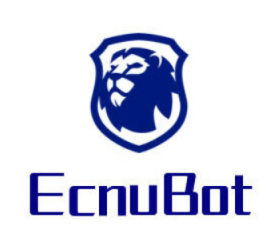
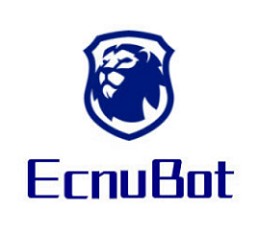
support stream chat

diff --git a/main.py b/main.py
@@ -1,6 +1,6 @@
+import time
 import gradio as gr
 from model import bridge_qianfan, bridge_ChatGLM3, bridge_educhat, bridge_qwen
-
 
 def parse_text(text):
     """copy from https://github.com/GaiZhenbiao/ChuanhuChatGPT/"""
@@ -35,10 +35,6 @@ def parse_text(text):
     return text
 
 
-def reset_user_input():
-    return gr.update(value="")
-
-
 def reset_state():
     return [], [], None
 
@@ -47,18 +43,22 @@ def reset_radio_input():
     return None
 
 
+def user_text(user_input, history):
+    prompt = parse_text(user_input)
+    return "", history + [[prompt, None]]
+
+
 def predict(
-    user_input,
     chatbot,
     model_dropdown,
     edu_radio,
     max_length,
     top_p,
     temperature,
-    history,
 ):
-    prompt = parse_text(user_input)
-    chatbot.append((prompt, ""))
+    history = chatbot[:-1]
+    prompt = chatbot[-1][0]
+    chatbot[-1][1] = ""
     if model_dropdown == "EduChat":
         response = bridge_educhat.get_resp(
             prompt, edu_radio, max_length, top_p, temperature, history
@@ -69,15 +69,18 @@ def predict(
         response = bridge_qwen.get_resp(prompt, max_length, top_p, temperature, history)
     if model_dropdown == "ChatGLM3":
         response = bridge_ChatGLM3.get_resp(prompt, history)
-    chatbot[-1] = (prompt, response)
-    history.append((prompt, response))
-    yield chatbot, history
+    history = history + [[prompt, response]]
+    for stream_char in response:
+        print(stream_char)
+        chatbot[-1][1] += stream_char
+        time.sleep(0.1)
+        yield chatbot
 
 
 with gr.Blocks() as demo:
     gr.Markdown(
         """\
-    <p align="center"><img src='/file=assets/EcnuBot.png' style="height: 60px"/><p>"""
+    <p align="center"><img src='/file=assets/Logo.png' style="height: 60px"/><p>"""
     )
     gr.Markdown("""<center><font size=6>EcnuBot</center>""")
     with gr.Column():
@@ -121,7 +124,9 @@ with gr.Blocks() as demo:
                 )
 
             with gr.Column(scale=6):
-                chatbot = gr.Chatbot()
+                chatbot = gr.Chatbot(
+                    avatar_images=["assets/User.png", "assets/EcnuBot.png"]
+                )
                 user_input = gr.Textbox(
                     show_label=False, placeholder="Input...", lines=2
                 ).style(container=False)
@@ -155,24 +160,14 @@ with gr.Blocks() as demo:
     )
 
     submitBtn.click(
+        user_text, [user_input, chatbot], [user_input, chatbot], queue=False
+    ).then(
         predict,
-        [
-            user_input,
-            chatbot,
-            model_dropdown,
-            edu_radio,
-            max_length,
-            top_p,
-            temperature,
-            history,
-        ],
-        [chatbot, history],
-        show_progress=True,
+        [chatbot, model_dropdown, edu_radio, max_length, top_p, temperature],
+        [chatbot],
     )
-    submitBtn.click(reset_user_input, [], [user_input])
-    edu_radio.select(reset_radio_input, [], [user_input])
-    # regen_btn.click(regenerate, [chatbot, model_dropdown, edu_radio, max_length, top_p, temperature, history], [chatbot], show_progress=True)
-    emptyBtn.click(reset_state, outputs=[chatbot, history], show_progress=True)
+    edu_radio.select(reset_radio_input, [], [user_input], queue=False)
+    emptyBtn.click(reset_state, outputs=[chatbot, history], queue=False)
 
 demo.queue().launch(
     share=False,

diff --git a/model/bridge_qianfan.py b/model/bridge_qianfan.py
@@ -45,6 +45,7 @@ def get_resp(user_input, top_p, temperature, history):
         qianfan_data["messages"] = []
     qianfan_data["top_p"] = top_p
     qianfan_data["temperature"] = temperature
+    # return "测试先帝创业未半而中道崩殂，今天下三分，益州疲弊，此诚危急存亡之秋也。然侍卫之臣不懈于内，忠志之士忘身于外者，盖追先帝之殊遇，欲报之于陛下也。诚宜开张圣听，以光先帝遗德，恢弘志士之气，不宜妄自菲薄，引喻失义，以塞忠谏之路也。宫中府中，俱为一体，陟罚臧否，不宜异同。若有作奸犯科及为忠善者，宜付有司论其刑赏，以昭陛下平明之理，不宜偏私，使内外异法也。侍中、侍郎郭攸之、费祎、董允等，此皆良实，志虑忠纯，是以先帝简拔以遗陛下。愚以为宫中之事，事无大小，悉以咨之，然后施行，必能裨补阙漏，有所广益。将军向宠，性行淑均，晓畅军事，试用于昔日，先帝称之曰能，是以众议举宠为督。愚以为营中之事，悉以咨之，必能使行阵和睦，优劣得所。亲贤臣，远小人，此先汉所以兴隆也；亲小人，远贤臣，此后汉所以倾颓也。先帝在时，每与臣论此事，未尝不叹息痛恨于桓、灵也。侍中、尚书、长史、参军，此悉贞良死节之臣，愿陛下亲之信之，则汉室之隆，可计日而待也。臣本布衣，躬耕于南阳，苟全性命于乱世，不求闻达于诸侯。先帝不以臣卑鄙，猥自枉屈，三顾臣于草庐之中，咨臣以当世之事，由是感激，遂许先帝以驱驰。后值倾覆，受任于败军之际，奉命于危难之间，尔来二十有一年矣。先帝知臣谨慎，故临崩寄臣以大事也。受命以来，夙夜忧叹，恐托付不效，以伤先帝之明，故五月渡泸，深入不毛。今南方已定，兵甲已足，当奖率三军，北定中原，庶竭驽钝，攘除奸凶，兴复汉室，还于旧都。此臣所以报先帝而忠陛下之职分也。至于斟酌损益，进尽忠言，则攸之、祎、允之任也。愿陛下托臣以讨贼兴复之效，不效，则治臣之罪，以告先帝之灵。若无兴德之言，则责攸之、祎、允等之慢，以彰其咎；陛下亦宜自谋，以咨诹善道，察纳雅言，深追先帝遗诏，臣不胜受恩感激。今当远离，临表涕零，不知所言。"
     try:
         qianfan_data["messages"].append({"role": "user", "content": user_input})
         payload = json.dumps(qianfan_data)

diff --git a/x.py b/x.py
@@ -1,0 +1,27 @@
+import gradio as gr
+import random
+import time
+
+with gr.Blocks() as demo:
+    chatbot = gr.Chatbot()
+    msg = gr.Textbox()
+    clear = gr.Button("Clear")
+
+    def user(user_message, history):
+        return "", history + [[user_message, None]]
+
+    def bot(history):
+        bot_message = random.choice(["How are you?", "I love you", "I'm very hungry"])
+        history[-1][1] = ""
+        for character in bot_message:
+            history[-1][1] += character
+            time.sleep(0.05)
+            yield history
+
+    msg.submit(user, [msg, chatbot], [msg, chatbot], queue=False).then(
+        bot, chatbot, chatbot
+    )
+    clear.click(lambda: None, None, chatbot, queue=False)
+    
+demo.queue()
+demo.launch()

diff --git a/utils/config.py b/utils/config.py
@@ -1,4 +1,7 @@
 config = {
+    # 文心
+    "wenxin_ak": "",  # 文心大模型的ak
+    "wenxin_sk": "",  # 文心大模型的sk
     # 千帆大模型
     "qianfan_url": "https://aip.baidubce.com/oauth/2.0/token",
     "qianfan_img": "https://aip.baidubce.com/rpc/2.0/ai_custom/v1/wenxinworkshop/text2image/sd_xl?access_token=",
